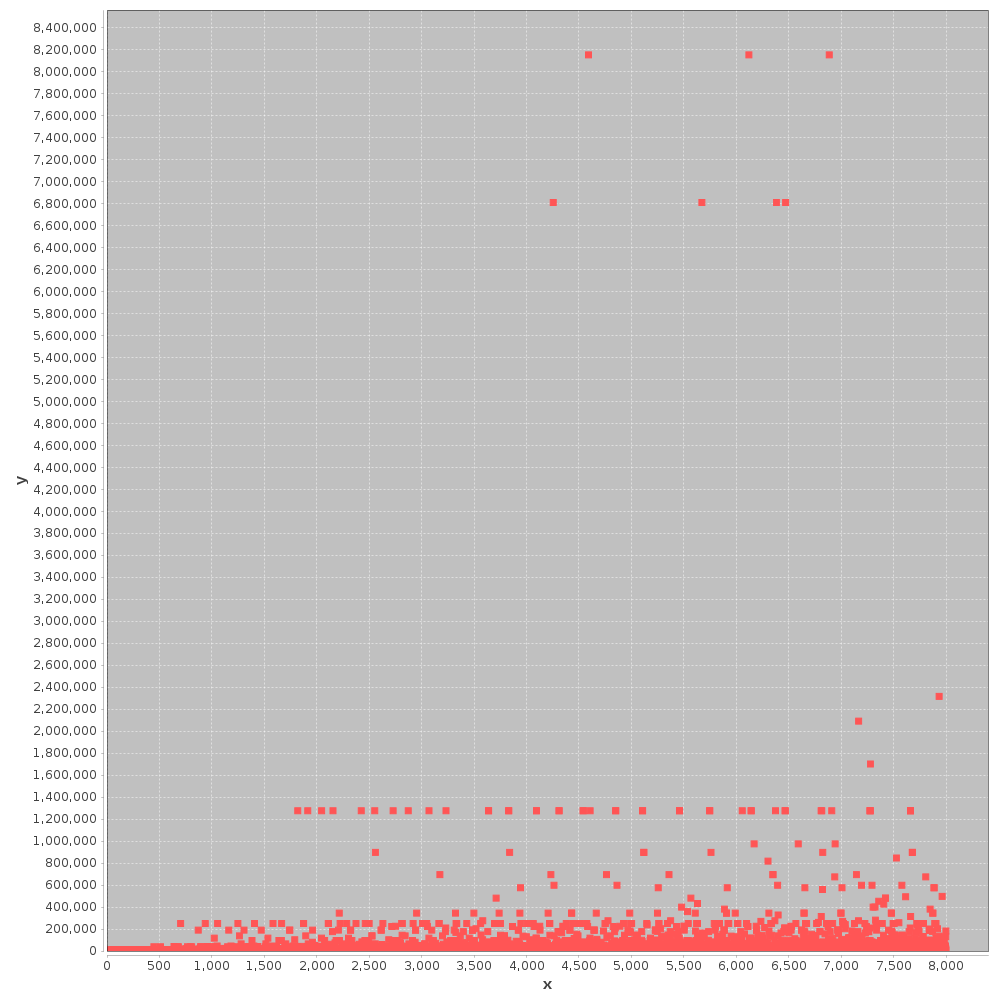
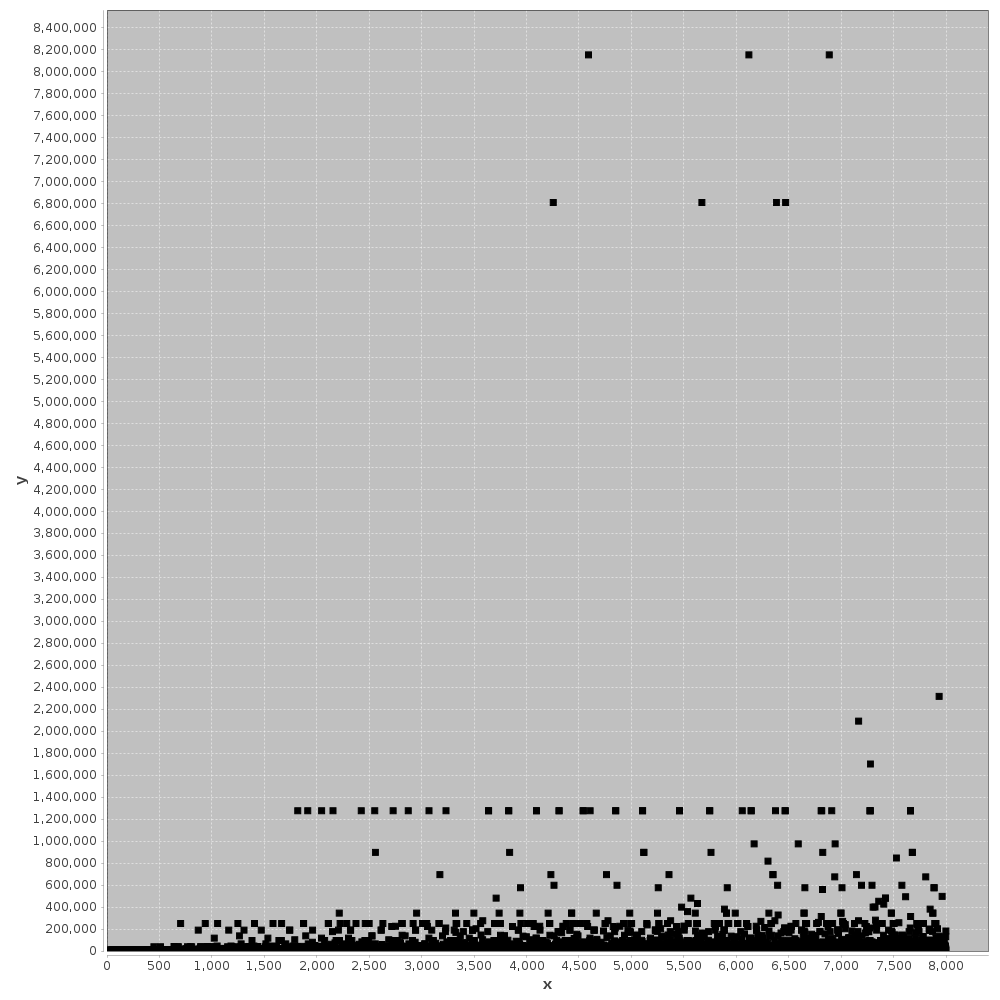
Implement Euclid modulus alg.

diff --git a/src/1D.kt b/src/1D.kt
@@ -1,3 +1,67 @@
+import org.jfree.data.xy.XYSeries
+import util.Chart
+import util.fileWithName
+import java.awt.Color
+import java.awt.Paint
+
 /**
  * Created by mseleng on 2/23/17.
  */
+fun main(args: Array<String>) {
+    euclidMod(300, 300)
+}
+
+fun euclidMod(width: Int, height: Int) {
+    val result = mutableMapOf(
+            NumberOfSteps.ONE_TO_THREE to XYSeries("1-3"),
+            NumberOfSteps.FOUR_TO_FIVE to XYSeries("4-5"),
+            NumberOfSteps.SIX_TO_EIGHT to XYSeries("6-8"),
+            NumberOfSteps.NINE_TO_TEN to XYSeries("9-10"),
+            NumberOfSteps.MORE_THAN_TEN to XYSeries("10<"))
+    for (x in 1..width) {
+        for (y in 1..height) {
+            val (_, steps) = euclidMod_recursive(x, y)
+            result[getNumberOfStepsEnum(steps)]?.add(x, y)
+        }
+    }
+    Chart("The number of steps needed to compute GCD of two numbers using the Euclid's modulus algorithm.",
+            result.mapKeys { it.key.getPaint() }, true)
+            .writeToPNG(fileWithName(1, "euclid[modulus].png"), 2000, 2000)
+}
+
+private fun euclidMod_recursive(x: Int, y: Int): EuclidSolution {
+    if (y == 0) {
+        return EuclidSolution(x, 1)
+    } else {
+        val (gcd, steps) = euclidMod_recursive(y, x.rem(y))
+        return EuclidSolution(gcd, steps + 1)
+    }
+}
+
+private fun euclidSub_recursive(x: Int, y: Int): EuclidSolution {
+
+}
+
+private data class EuclidSolution(val gcd: Int, val steps: Int)
+
+private enum class NumberOfSteps(val from: Int, val to: Int) {
+    ONE_TO_THREE(1, 3) {
+        override fun getPaint(): Paint = Color.RED
+    },
+    FOUR_TO_FIVE(4, 5) {
+        override fun getPaint(): Paint = Color.ORANGE
+    },
+    SIX_TO_EIGHT(6, 8) {
+        override fun getPaint(): Paint = Color.YELLOW
+    },
+    NINE_TO_TEN(9, 10) {
+        override fun getPaint(): Paint = Color.GREEN
+    },
+    MORE_THAN_TEN(11, Int.MAX_VALUE) {
+        override fun getPaint(): Paint = Color.BLUE
+    };
+
+    abstract fun getPaint(): Paint
+}
+
+private fun getNumberOfStepsEnum(steps: Int) = NumberOfSteps.values().filter { steps >= it.from && steps <= it.to }.first()

diff --git a/src/1C.kt b/src/1C.kt
@@ -1,5 +1,8 @@
+import org.jfree.data.xy.XYSeries
 import util.Chart
 import util.fileWithName
+import java.awt.Color
+import java.awt.Paint
 
 fun main(args: Array<String>) {
     collatz(8000)
@@ -15,7 +18,7 @@ fun main(args: Array<String>) {
  * @param n the maximum number to show on the graph ((1..n) interval will be shown)
  */
 fun collatz(n: Int) {
-    val resultMap = mutableMapOf<Int, Int>()
+    val result = XYSeries("")
     for (number in 1..n) {
         var mutableNumber = number
         var steps = 1
@@ -27,9 +30,9 @@ fun collatz(n: Int) {
             }
             steps++
         }
-        resultMap.put(number, steps)
+        result.add(number, steps)
     }
-    Chart("", resultMap).writeToPNG(fileWithName(1, "collatz.png"), 1000, 1000)
+    Chart("", mapOf(Color.BLACK to result)).writeToPNG(fileWithName(1, "collatz.png"), 1000, 1000)
 }
 
 /**
@@ -41,7 +44,7 @@ fun collatz(n: Int) {
  * @param n the maximum number to show on the graph ((1..n) interval will be shown)
  */
 fun collatzWithMax(n: Int) {
-    val resultMap = mutableMapOf<Int, Int>()
+    val result = XYSeries("")
     for (number in 1..n) {
         var mutableNumber = number
         var max = mutableNumber
@@ -53,7 +56,7 @@ fun collatzWithMax(n: Int) {
             }
             max = maxOf(mutableNumber, max)
         }
-        resultMap.put(number, max)
+        result.add(number, max)
     }
-    Chart("", resultMap).writeToPNG(fileWithName(1, "collatz-max.png"), 1000, 1000)
+    Chart("", mapOf(Color.BLACK to result)).writeToPNG(fileWithName(1, "collatz-max.png"), 1000, 1000)
 }

diff --git a/src/util/PlotUtils.kt b/src/util/PlotUtils.kt
@@ -2,28 +2,29 @@ package util
 
 import org.jfree.chart.ChartFactory
 import org.jfree.chart.ChartUtilities
-import org.jfree.chart.JFreeChart
-import org.jfree.data.general.Dataset
 import org.jfree.data.xy.XYSeries
 import org.jfree.data.xy.XYSeriesCollection
+import java.awt.Paint
 import java.io.File
 
 
 /**
  * Created by mseleng on 2/22/17.
  */
-class Chart<X: Number, out Y: Number>(chartName: String, data: Map<X, Y>) {
-    private val dataSet: Dataset
-    private val chart: JFreeChart
+class Chart(chartName: String, data: Map<Paint, XYSeries>, showLegend: Boolean = false) {
+    private val dataSet = XYSeriesCollection()
+    private val chart = ChartFactory.createScatterPlot(chartName, "x", "y", dataSet)
 
     init {
-        val series = XYSeries("")
-        for ((x, y) in data) {
-            series.add(x, y)
+        if (!showLegend) {
+            chart.removeLegend()
         }
-        dataSet = XYSeriesCollection(series)
-        chart = ChartFactory.createScatterPlot(chartName, "x", "y", dataSet)
-        chart.removeLegend()
+        var i = 0
+        for ((x, y) in data) {
+            dataSet.addSeries(y)
+            chart.xyPlot.renderer.setSeriesPaint(i, x)
+            i = i.inc()
+        }
     }
 
     fun writeToPNG(file: File, width: Int, height: Int) {

diff --git a/src/util/VectorUtils.kt b/src/util/VectorUtils.kt
@@ -89,10 +89,7 @@ class SVG(val width: Int, val height: Int) {
         return if (stroke == null) {
             "stroke:none"
         } else {
-            val r = stroke.red
-            val g = stroke.green
-            val b = stroke.blue
-            "stroke:rgb($r,$g,$b)"
+            "stroke:rgb(${stroke.red},${stroke.green},${stroke.blue})"
         }
     }
 
@@ -108,10 +105,7 @@ class SVG(val width: Int, val height: Int) {
         return if (fill == null) {
             "fill:none"
         } else {
-            val r = fill.red
-            val g = fill.green
-            val b = fill.blue
-            "fill:rgb($r,$g,$b)"
+            "fill:rgb(${fill.red},${fill.green},${fill.blue})"
         }
     }
 
